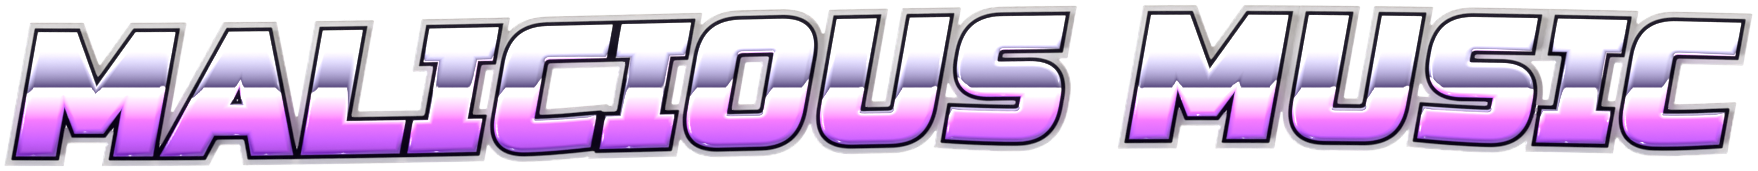
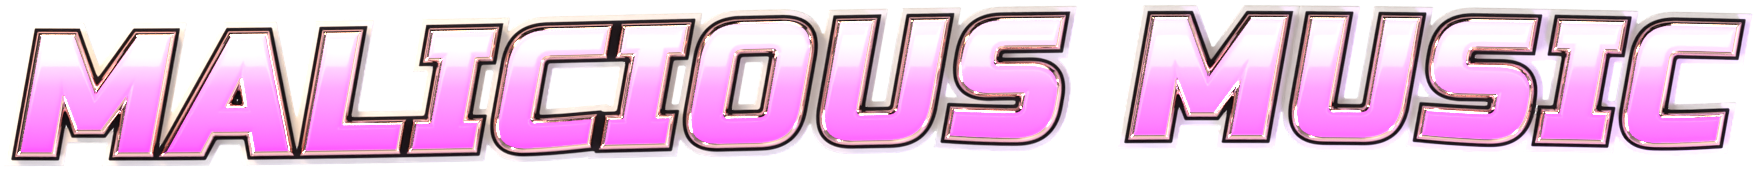
Titre : rose bonbon laqué et biseaux métal irisé, plus proche de la référence

diff --git a/index.html b/index.html
@@ -9,7 +9,7 @@
   <link rel="preconnect" href="https://fonts.googleapis.com" />
   <link rel="preconnect" href="https://fonts.gstatic.com" crossorigin />
   <link href="https://fonts.googleapis.com/css2?family=Russo+One&family=VT323&display=swap" rel="stylesheet" />
-  <link rel="stylesheet" href="styles.css?v=30" />
+  <link rel="stylesheet" href="styles.css?v=31" />
   <link rel="preload" as="image" href="assets/hw/power-on-frame.png" />
   <link rel="preload" as="image" href="assets/hw/power-off-frame.png" />
   <script>document.documentElement.classList.add("js");</script>
@@ -363,6 +363,6 @@
   <img class="charm" data-len="3.2" data-size="1.05" src="assets/hw/charm-bass.png" alt="" />
 </div>
 <img class="stylus" id="stylus" src="assets/hw/stylus.png" alt="" aria-hidden="true" />
-<script src="main.js?v=30"></script>
+<script src="main.js?v=31"></script>
 </body>
 </html>

diff --git a/design/blender/parts.py b/design/blender/parts.py
@@ -494,20 +494,68 @@ def part_title_chrome():
     bv = rim.modifiers.new("bevel", "BEVEL"); bv.width = 0.01; bv.segments = 3; bv.limit_method = "ANGLE"
     bpy.ops.object.shade_smooth()
     cut.hide_render = True
-    rim.data.materials.append(mat("rim_dark", (0.5, 0.52, 0.56), 1.0, 0.32))
+    rim.data.materials.append(mat("rim_dark", (0.36, 0.37, 0.41), 1.0, 0.34))
     well = text_mesh("well", 0.05, 0.004, 0.0, -0.05)
-    well.data.materials.append(mat("well", (0.025, 0.02, 0.04), 1.0, 0.45))
-    letters = text_mesh("letters", 0.0, 0.022, 0.026, 0.006)
-    letters.data.materials.append(chrome80_material())
+    well.data.materials.append(mat("well", (0.012, 0.006, 0.02), 0.0, 0.5))
+    letters = text_mesh("letters", -0.016, 0.012, 0.046, 0.006)
+    rm = letters.modifiers.new("remesh", "REMESH"); rm.mode = "VOXEL"; rm.voxel_size = 0.0035
+    bpy.context.view_layer.objects.active = letters
+    bpy.ops.object.modifier_apply(modifier="remesh")
+    letters.data.materials.append(iridescent_edge_material())   # 0 : biseaux et flancs
+    letters.data.materials.append(candy_face_material())        # 1 : face avant
+    for poly in letters.data.polygons:
+        poly.material_index = 1 if poly.normal.z > 0.9 else 0
+    bpy.context.view_layer.objects.active = letters
+    bpy.ops.object.shade_smooth()
     for ob in (letters, rim, well):         # vague légère : le mot ondule
         for v in ob.data.vertices:
             v.co.y += 0.045 * math.sin(v.co.x * 0.55 + 0.6)
     w = rim.dimensions.x
+    # éclairage : chaud en haut à gauche (reflets or), violet en bas à droite, bande claire au-dessus (reflet laqué)
+    target = bpy.data.objects.new("target", None); bpy.context.collection.objects.link(target)
+    for name, loc, col, energy, size in (("warm", (-6, 3.5, 2.2), (1.0, 0.72, 0.45), 380, 0.8),
+                                         ("cool", (6, -3.5, 2.2), (0.62, 0.35, 1.0), 380, 0.8)):
+        l = bpy.data.lights.new(name, "AREA"); l.color = col; l.energy = energy; l.size = size
+        o = bpy.data.objects.new(name, l); o.location = loc; bpy.context.collection.objects.link(o)
+        c = o.constraints.new("TRACK_TO"); c.target = target; c.track_axis = "TRACK_NEGATIVE_Z"; c.up_axis = "UP_Y"
+    sheen = bpy.data.lights.new("sheen", "AREA"); sheen.shape = "RECTANGLE"
+    sheen.size = w * 1.3; sheen.size_y = 0.16; sheen.energy = 28
+    so = bpy.data.objects.new("sheen", sheen); so.location = (0, 0.2, 3.0); bpy.context.collection.objects.link(so)
     camera_top(w * 1.03, 1800, 300)
     vs = bpy.context.scene.view_settings
     vs.view_transform, vs.look = "Standard", "None"
     render("title-chrome")
     vs.view_transform, vs.look = "AgX", "AgX - Punchy"
+
+
+def candy_face_material():
+    """Face des lettres : rose bonbon laqué, plus clair en haut (référence chrome rose)."""
+    m = bpy.data.materials.new("candy_face"); m.use_nodes = True
+    nt = m.node_tree; p = nt.nodes["Principled BSDF"]
+    p.inputs["Metallic"].default_value = 0.0
+    p.inputs["Roughness"].default_value = 0.22
+    p.inputs["Coat Weight"].default_value = 1.0
+    p.inputs["Coat Roughness"].default_value = 0.02
+    tc = nt.nodes.new("ShaderNodeTexCoord"); sp = nt.nodes.new("ShaderNodeSeparateXYZ")
+    mr = nt.nodes.new("ShaderNodeMapRange"); mr.inputs["From Min"].default_value = -0.38; mr.inputs["From Max"].default_value = 0.4
+    ramp = nt.nodes.new("ShaderNodeValToRGB"); els = ramp.color_ramp.elements
+    els[0].color = (0.72, 0.03, 0.68, 1)          # bas : magenta profond
+    els[1].color = (1.0, 0.72, 1.0, 1)            # haut : rose clair
+    e = els.new(0.5); e.color = (1.0, 0.22, 0.88, 1)
+    nt.links.new(tc.outputs["Object"], sp.inputs["Vector"]); nt.links.new(sp.outputs["Y"], mr.inputs["Value"])
+    nt.links.new(mr.outputs["Result"], ramp.inputs["Fac"])
+    nt.links.new(ramp.outputs["Color"], p.inputs["Base Color"]); nt.links.new(ramp.outputs["Color"], p.inputs["Emission Color"])
+    p.inputs["Emission Strength"].default_value = 0.42
+    return m
+
+
+def iridescent_edge_material():
+    """Biseaux : métal poli à film fin, reflets or pêche ↔ violet."""
+    m = mat("iridescent_edge", (1.0, 0.72, 0.68), 1.0, 0.1)
+    p = m.node_tree.nodes["Principled BSDF"]
+    p.inputs["Thin Film Thickness"].default_value = 560.0
+    p.inputs["Thin Film IOR"].default_value = 1.45
+    return m
 
 
 # ------------------------------------------------------------------ charms
